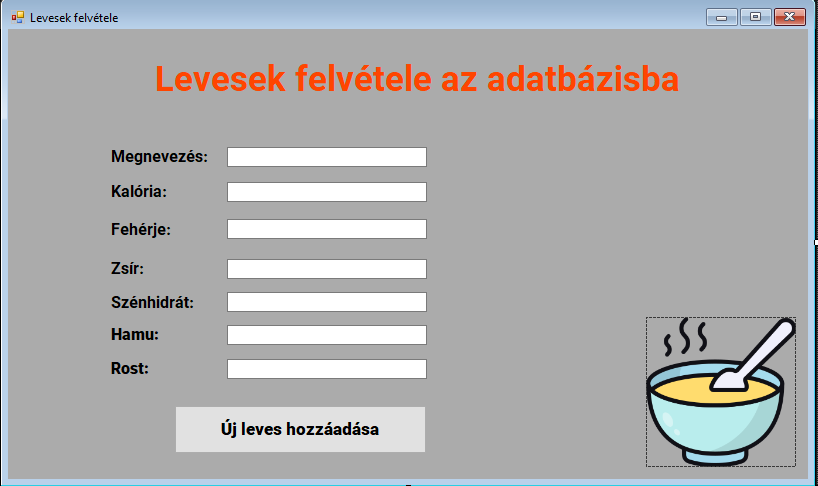
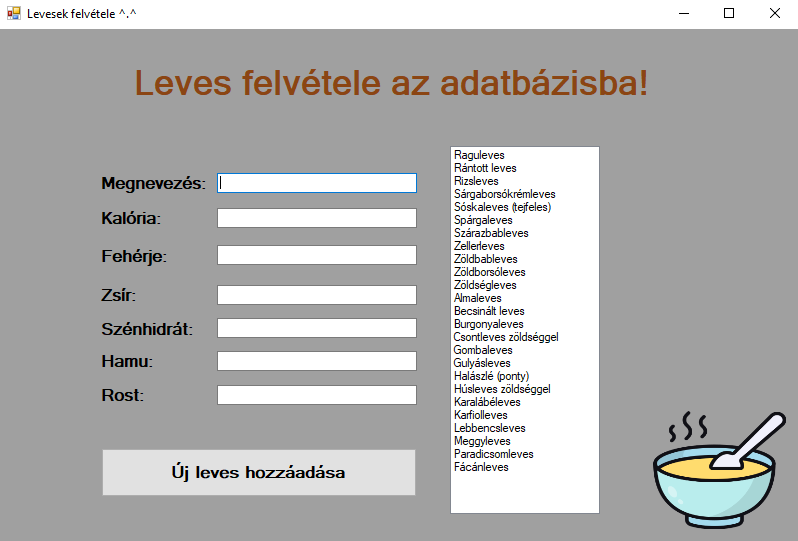
lista megjelenítéssel

diff --git a/Csharp-Levesek-WinForms/Form1.Designer.cs b/Csharp-Levesek-WinForms/Form1.Designer.cs
@@ -53,7 +53,7 @@
             // pictureBox1
             // 
             this.pictureBox1.Image = ((System.Drawing.Image)(resources.GetObject("pictureBox1.Image")));
-            this.pictureBox1.Location = new System.Drawing.Point(655, 320);
+            this.pictureBox1.Location = new System.Drawing.Point(655, 382);
             this.pictureBox1.Name = "pictureBox1";
             this.pictureBox1.Size = new System.Drawing.Size(133, 118);
             this.pictureBox1.SizeMode = System.Windows.Forms.PictureBoxSizeMode.StretchImage;
@@ -64,7 +64,7 @@
             // 
             this.label1.AutoSize = true;
             this.label1.Font = new System.Drawing.Font("Microsoft Sans Serif", 12F, System.Drawing.FontStyle.Bold, System.Drawing.GraphicsUnit.Point, ((byte)(238)));
-            this.label1.Location = new System.Drawing.Point(99, 118);
+            this.label1.Location = new System.Drawing.Point(99, 144);
             this.label1.Name = "label1";
             this.label1.Size = new System.Drawing.Size(114, 20);
             this.label1.TabIndex = 1;
@@ -74,7 +74,7 @@
             // 
             this.label2.AutoSize = true;
             this.label2.Font = new System.Drawing.Font("Microsoft Sans Serif", 12F, System.Drawing.FontStyle.Bold, System.Drawing.GraphicsUnit.Point, ((byte)(238)));
-            this.label2.Location = new System.Drawing.Point(99, 153);
+            this.label2.Location = new System.Drawing.Point(99, 179);
             this.label2.Name = "label2";
             this.label2.Size = new System.Drawing.Size(69, 20);
             this.label2.TabIndex = 2;
@@ -84,7 +84,7 @@
             // 
             this.label3.AutoSize = true;
             this.label3.Font = new System.Drawing.Font("Microsoft Sans Serif", 12F, System.Drawing.FontStyle.Bold, System.Drawing.GraphicsUnit.Point, ((byte)(238)));
-            this.label3.Location = new System.Drawing.Point(99, 191);
+            this.label3.Location = new System.Drawing.Point(99, 217);
             this.label3.Name = "label3";
             this.label3.Size = new System.Drawing.Size(75, 20);
             this.label3.TabIndex = 3;
@@ -94,7 +94,7 @@
             // 
             this.label4.AutoSize = true;
             this.label4.Font = new System.Drawing.Font("Microsoft Sans Serif", 12F, System.Drawing.FontStyle.Bold, System.Drawing.GraphicsUnit.Point, ((byte)(238)));
-            this.label4.Location = new System.Drawing.Point(99, 230);
+            this.label4.Location = new System.Drawing.Point(99, 256);
             this.label4.Name = "label4";
             this.label4.Size = new System.Drawing.Size(44, 20);
             this.label4.TabIndex = 4;
@@ -104,7 +104,7 @@
             // 
             this.label5.AutoSize = true;
             this.label5.Font = new System.Drawing.Font("Microsoft Sans Serif", 12F, System.Drawing.FontStyle.Bold, System.Drawing.GraphicsUnit.Point, ((byte)(238)));
-            this.label5.Location = new System.Drawing.Point(99, 264);
+            this.label5.Location = new System.Drawing.Point(99, 290);
             this.label5.Name = "label5";
             this.label5.Size = new System.Drawing.Size(101, 20);
             this.label5.TabIndex = 5;
@@ -114,7 +114,7 @@
             // 
             this.label6.AutoSize = true;
             this.label6.Font = new System.Drawing.Font("Microsoft Sans Serif", 12F, System.Drawing.FontStyle.Bold, System.Drawing.GraphicsUnit.Point, ((byte)(238)));
-            this.label6.Location = new System.Drawing.Point(99, 296);
+            this.label6.Location = new System.Drawing.Point(99, 322);
             this.label6.Name = "label6";
             this.label6.Size = new System.Drawing.Size(61, 20);
             this.label6.TabIndex = 6;
@@ -124,7 +124,7 @@
             // 
             this.label7.AutoSize = true;
             this.label7.Font = new System.Drawing.Font("Microsoft Sans Serif", 12F, System.Drawing.FontStyle.Bold, System.Drawing.GraphicsUnit.Point, ((byte)(238)));
-            this.label7.Location = new System.Drawing.Point(99, 330);
+            this.label7.Location = new System.Drawing.Point(99, 356);
             this.label7.Name = "label7";
             this.label7.Size = new System.Drawing.Size(52, 20);
             this.label7.TabIndex = 7;
@@ -132,7 +132,7 @@
             // 
             // text_Megnevezes
             // 
-            this.text_Megnevezes.Location = new System.Drawing.Point(219, 118);
+            this.text_Megnevezes.Location = new System.Drawing.Point(219, 144);
             this.text_Megnevezes.Name = "text_Megnevezes";
             this.text_Megnevezes.Size = new System.Drawing.Size(200, 20);
             this.text_Megnevezes.TabIndex = 8;
@@ -141,52 +141,52 @@
             // 
             this.label8.AutoSize = true;
             this.label8.Font = new System.Drawing.Font("Microsoft Sans Serif", 26.25F, System.Drawing.FontStyle.Bold, System.Drawing.GraphicsUnit.Point, ((byte)(238)));
-            this.label8.ForeColor = System.Drawing.Color.OrangeRed;
-            this.label8.Location = new System.Drawing.Point(140, 29);
+            this.label8.ForeColor = System.Drawing.Color.SaddleBrown;
+            this.label8.Location = new System.Drawing.Point(129, 34);
             this.label8.Name = "label8";
-            this.label8.Size = new System.Drawing.Size(560, 39);
+            this.label8.Size = new System.Drawing.Size(532, 39);
             this.label8.TabIndex = 9;
-            this.label8.Text = "Levesek felvétele az adatbázisba";
+            this.label8.Text = "Leves felvétele az adatbázisba!";
             this.label8.TextAlign = System.Drawing.ContentAlignment.TopCenter;
             // 
             // text_Kaloria
             // 
-            this.text_Kaloria.Location = new System.Drawing.Point(219, 153);
+            this.text_Kaloria.Location = new System.Drawing.Point(219, 179);
             this.text_Kaloria.Name = "text_Kaloria";
             this.text_Kaloria.Size = new System.Drawing.Size(200, 20);
             this.text_Kaloria.TabIndex = 10;
             // 
             // text_Feherje
             // 
-            this.text_Feherje.Location = new System.Drawing.Point(219, 190);
+            this.text_Feherje.Location = new System.Drawing.Point(219, 216);
             this.text_Feherje.Name = "text_Feherje";
             this.text_Feherje.Size = new System.Drawing.Size(200, 20);
             this.text_Feherje.TabIndex = 11;
             // 
             // text_Zsir
             // 
-            this.text_Zsir.Location = new System.Drawing.Point(219, 230);
+            this.text_Zsir.Location = new System.Drawing.Point(219, 256);
             this.text_Zsir.Name = "text_Zsir";
             this.text_Zsir.Size = new System.Drawing.Size(200, 20);
             this.text_Zsir.TabIndex = 12;
             // 
             // text_Szenhidrat
             // 
-            this.text_Szenhidrat.Location = new System.Drawing.Point(219, 263);
+            this.text_Szenhidrat.Location = new System.Drawing.Point(219, 289);
             this.text_Szenhidrat.Name = "text_Szenhidrat";
             this.text_Szenhidrat.Size = new System.Drawing.Size(200, 20);
             this.text_Szenhidrat.TabIndex = 13;
             // 
             // text_Hamu
             // 
-            this.text_Hamu.Location = new System.Drawing.Point(219, 296);
+            this.text_Hamu.Location = new System.Drawing.Point(219, 322);
             this.text_Hamu.Name = "text_Hamu";
             this.text_Hamu.Size = new System.Drawing.Size(200, 20);
             this.text_Hamu.TabIndex = 14;
             // 
             // text_Rost
             // 
-            this.text_Rost.Location = new System.Drawing.Point(219, 330);
+            this.text_Rost.Location = new System.Drawing.Point(219, 356);
             this.text_Rost.Name = "text_Rost";
             this.text_Rost.Size = new System.Drawing.Size(200, 20);
             this.text_Rost.TabIndex = 15;
@@ -194,9 +194,9 @@
             // button_LevesHozzaad
             // 
             this.button_LevesHozzaad.Font = new System.Drawing.Font("Microsoft Sans Serif", 12.75F, System.Drawing.FontStyle.Bold, System.Drawing.GraphicsUnit.Point, ((byte)(238)));
-            this.button_LevesHozzaad.Location = new System.Drawing.Point(166, 376);
+            this.button_LevesHozzaad.Location = new System.Drawing.Point(103, 419);
             this.button_LevesHozzaad.Name = "button_LevesHozzaad";
-            this.button_LevesHozzaad.Size = new System.Drawing.Size(253, 49);
+            this.button_LevesHozzaad.Size = new System.Drawing.Size(316, 49);
             this.button_LevesHozzaad.TabIndex = 16;
             this.button_LevesHozzaad.Text = "Új leves hozzáadása";
             this.button_LevesHozzaad.UseVisualStyleBackColor = true;
@@ -207,15 +207,15 @@
             this.levesLista.FormattingEnabled = true;
             this.levesLista.Location = new System.Drawing.Point(452, 117);
             this.levesLista.Name = "levesLista";
-            this.levesLista.Size = new System.Drawing.Size(150, 303);
+            this.levesLista.Size = new System.Drawing.Size(150, 368);
             this.levesLista.TabIndex = 17;
             // 
             // Form1
             // 
             this.AutoScaleDimensions = new System.Drawing.SizeF(6F, 13F);
             this.AutoScaleMode = System.Windows.Forms.AutoScaleMode.Font;
-            this.BackColor = System.Drawing.SystemColors.AppWorkspace;
-            this.ClientSize = new System.Drawing.Size(800, 450);
+            this.BackColor = System.Drawing.SystemColors.ButtonShadow;
+            this.ClientSize = new System.Drawing.Size(800, 512);
             this.Controls.Add(this.levesLista);
             this.Controls.Add(this.button_LevesHozzaad);
             this.Controls.Add(this.text_Rost);
@@ -235,7 +235,7 @@
             this.Controls.Add(this.label1);
             this.Controls.Add(this.pictureBox1);
             this.Name = "Form1";
-            this.Text = "Levesek felvétele";
+            this.Text = "Levesek felvétele ^.^";
             this.Load += new System.EventHandler(this.Form1_Load);
             ((System.ComponentModel.ISupportInitialize)(this.pictureBox1)).EndInit();
             this.ResumeLayout(false);
